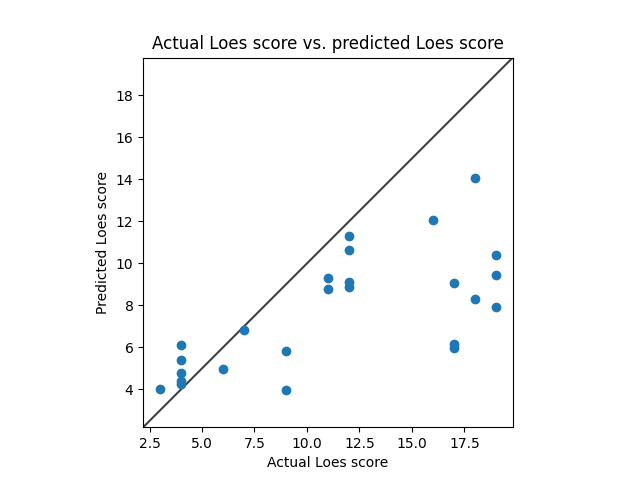
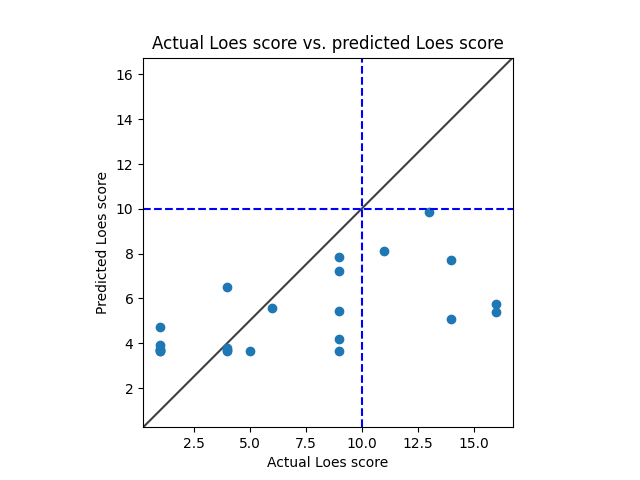
Redid Model 6 with stratification by score.

diff --git a/doc/LoesScoreModels.md b/doc/LoesScoreModels.md
@@ -44,12 +44,12 @@
 
 # Model 6
 * data: all of Ashish's non-Gd data
-* Standardized RMSE: 2.0317264758139366
-![Model 6](./img/model06.png "Model 1")
-* correlation:    0.6802879190059432
-* p-value:        0.0001827859542662024
-* standard error: 0.07425917812043135
-* SLURM script: *../src/dcan/training/loes-scoring-training_model06_mesabi.sh*
+* Standardized RMSE: 2.5078898627029402
+![Model 6](./img/model06.png "Model 6")
+* correlation:    0.6090500328217285
+* p-value:        0.0020389477560696896
+* standard error: 0.06098120081065121
+* SLURM script: *../bin/loes-scoring-training_model06_mesabi.sh*
 * Model: */home/feczk001/shared/data/AlexNet/LoesScoring/loes_scoring_06.pt*
 * Epochs: 128
 
